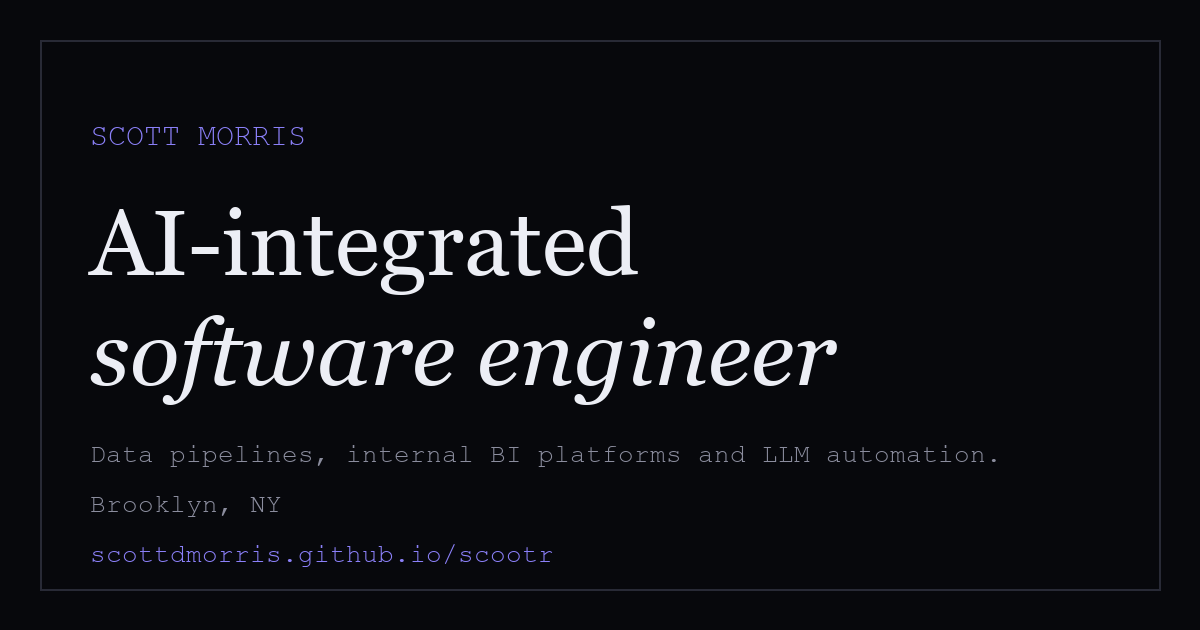
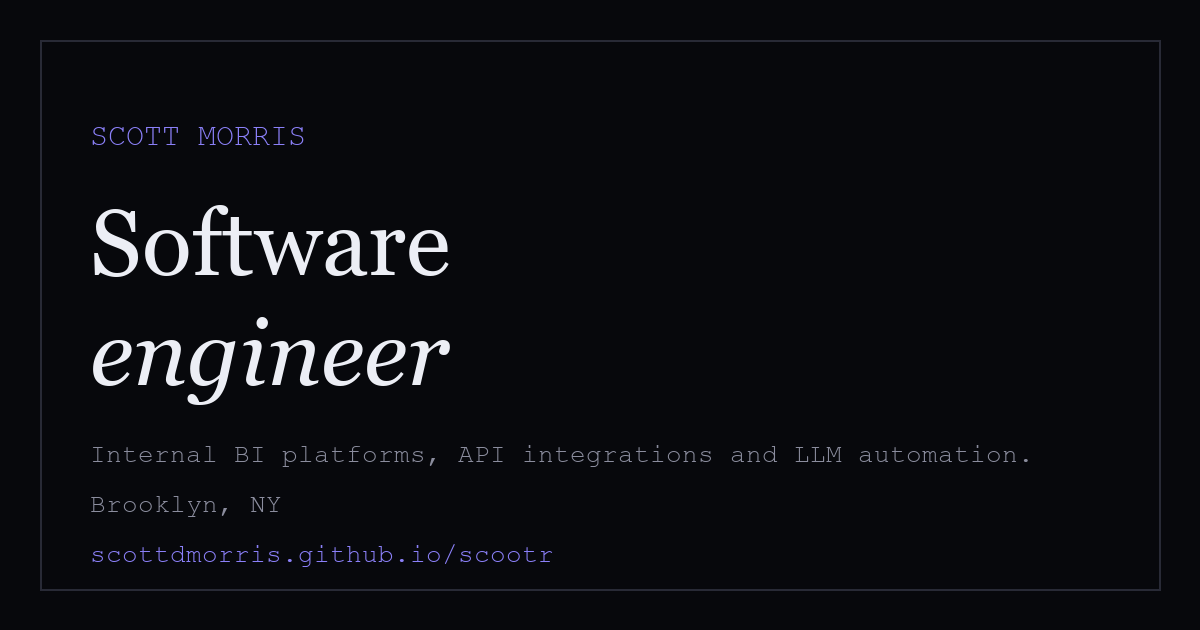
fix(site): replace "AI-integrated" wording on the About page and preview card
Change the About tagline and meta descriptions to "Software engineer" and
redraw og.png to match, so the phrase no longer appears anywhere on the site.

diff --git a/about/index.html b/about/index.html
@@ -4,7 +4,7 @@
 <meta charset="UTF-8">
 <meta name="viewport" content="width=device-width, initial-scale=1.0">
 <title>About — scootr's laboratory</title>
-<meta name="description" content="Scott Morris — AI-integrated software engineer and data professional in Brooklyn, NY. Python automation, ETL pipelines, CRM architecture, and LLM APIs in production.">
+<meta name="description" content="Scott Morris — software engineer and data professional in Brooklyn, NY. Python automation, ETL pipelines, CRM architecture, and LLM APIs in production.">
 <meta property="og:image" content="https://scottdmorris.github.io/scootr/og.png">
 <meta name="twitter:card" content="summary_large_image">
[1 lines of base64/hex data omitted]
@@ -22,8 +22,8 @@
   })();
 </script>
 <meta property="og:type" content="website">
-<meta property="og:title" content="Scott Morris — AI-integrated engineer">
-<meta property="og:description" content="Scott Morris — AI-integrated software engineer and data professional in Brooklyn, NY. Python automation, ETL pipelines, CRM architecture, and LLM APIs in production.">
+<meta property="og:title" content="Scott Morris — Software engineer">
+<meta property="og:description" content="Scott Morris — software engineer and data professional in Brooklyn, NY. Python automation, ETL pipelines, CRM architecture, and LLM APIs in production.">
 <meta property="og:url" content="https://scottdmorris.github.io/scootr/about/">
 <link rel="preconnect" href="https://fonts.googleapis.com">
 <link href="https://fonts.googleapis.com/css2?family=Cormorant+Garamond:ital,wght@0,300;0,400;1,300&family=Courier+Prime:wght@400;700&display=swap" rel="stylesheet">
@@ -312,7 +312,7 @@
   <header class="hero">
     <span class="label">Operator File · 00</span>
     <h1>Scott Morris</h1>
-    <p class="tagline">AI-integrated engineer. Builds the systems that watch, learn, and report back.</p>
+    <p class="tagline">Software engineer. Builds the systems that watch, learn, and report back.</p>
   </header>
 
   <div class="dossier">
